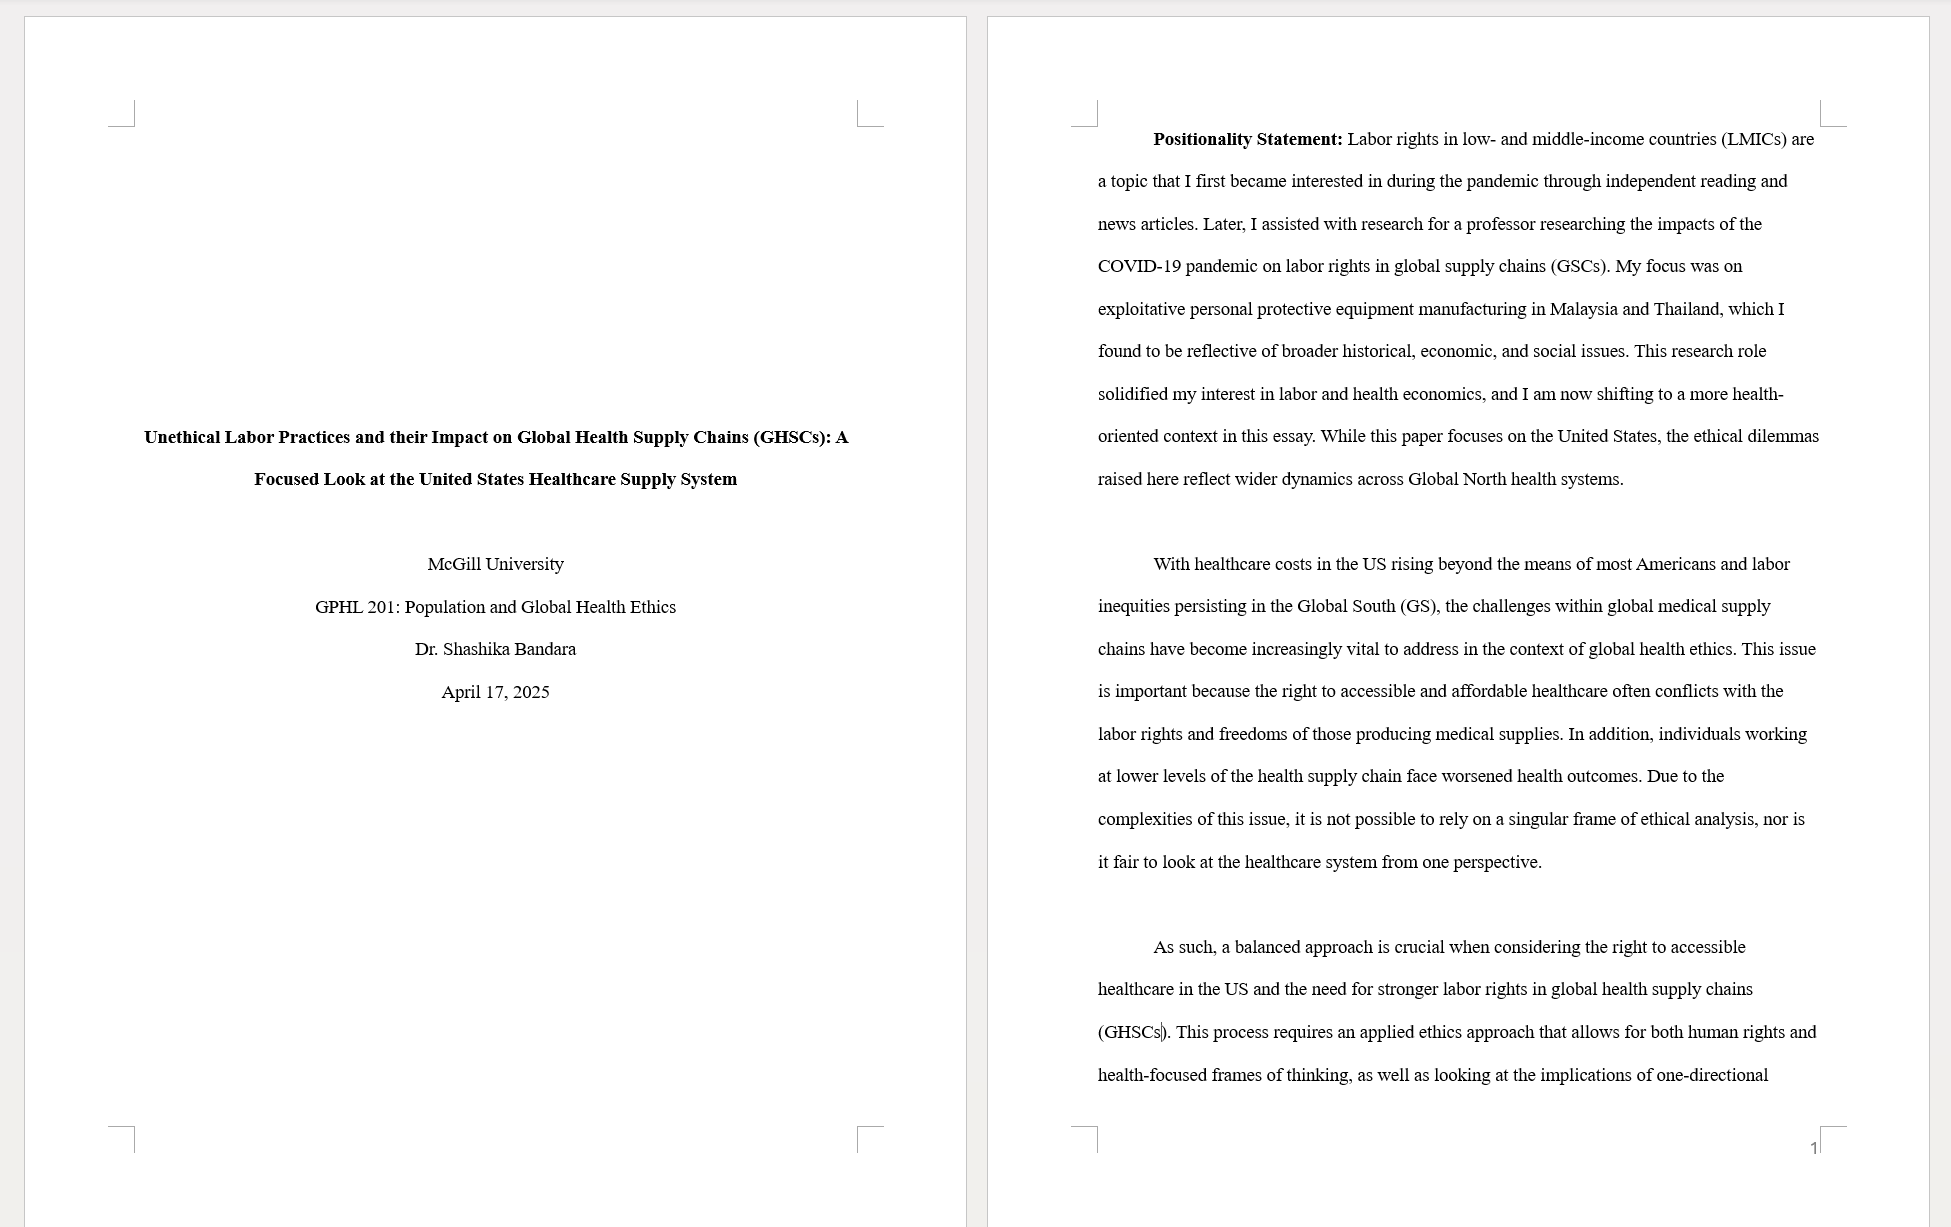
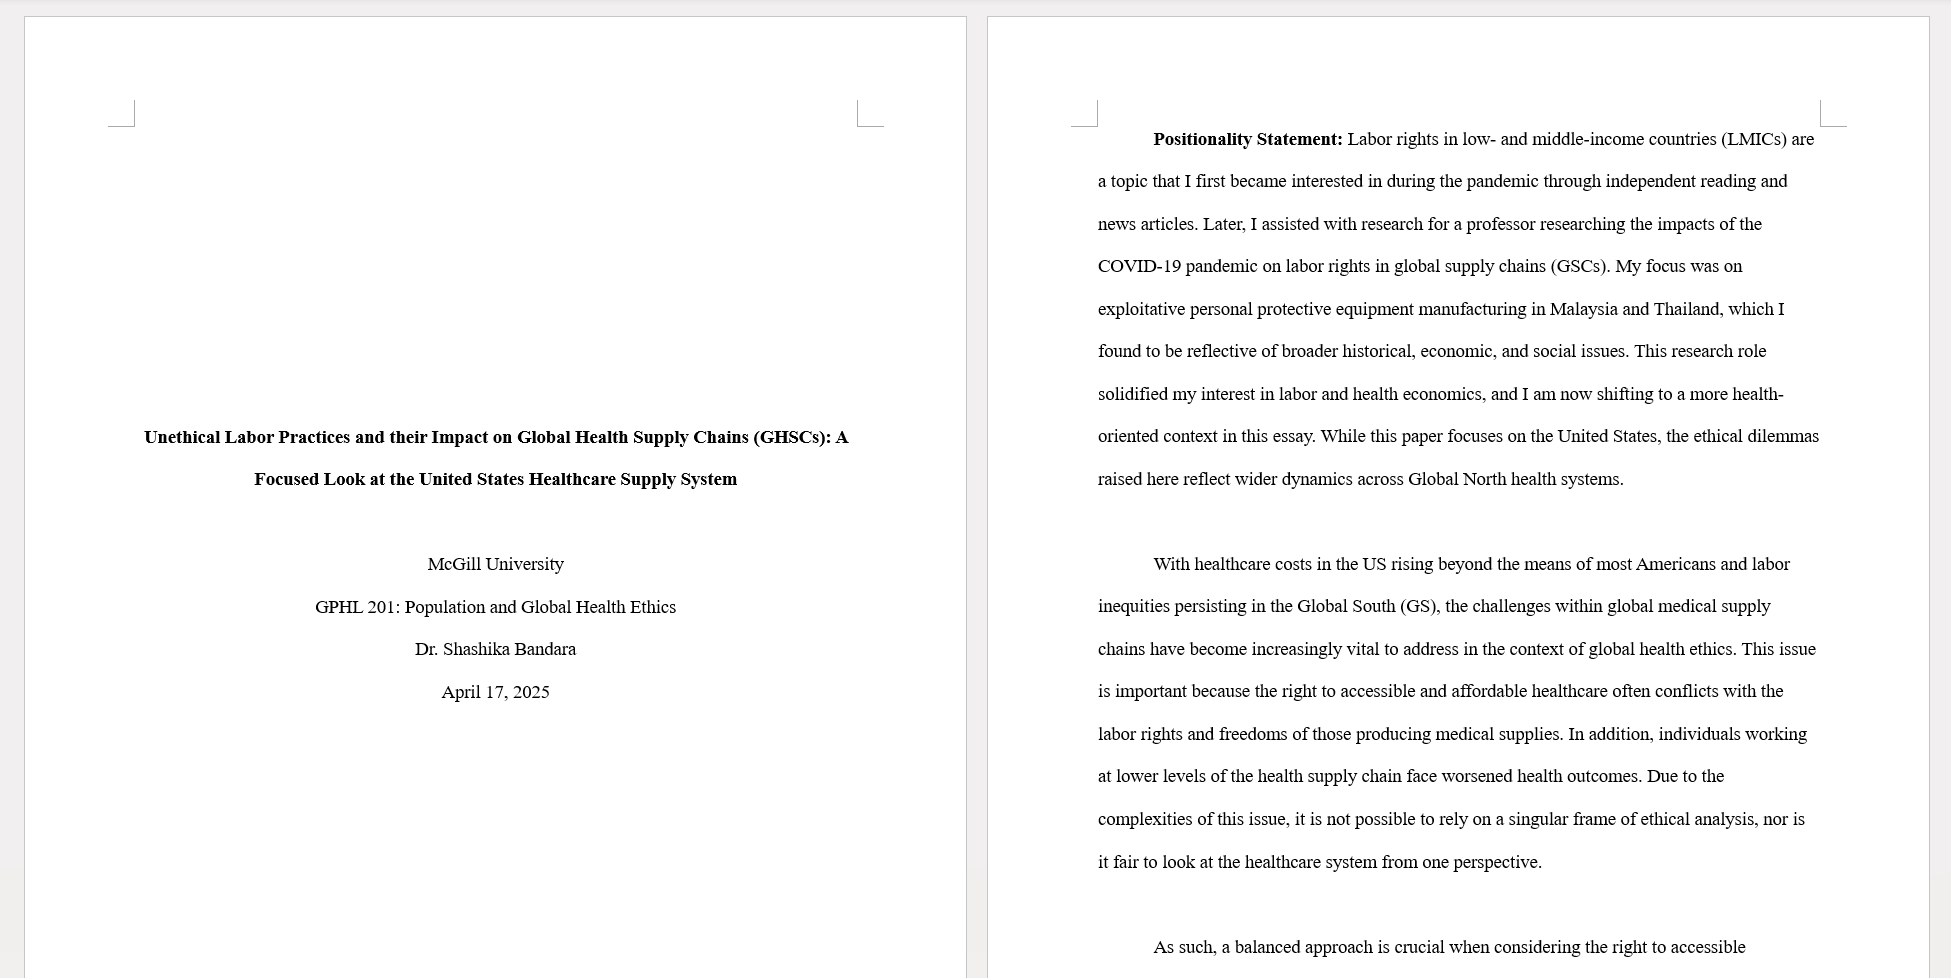
feat: add experience image and additional context to experience section

diff --git a/experiences.html b/experiences.html
@@ -23,8 +23,8 @@
                     <a href="experiences.html" class="navbar_mobile_link">EXPERIENCE</a>
                     <a href="extracurriculars.html" class="navbar_mobile_link">EXTRACURRICULARS</a>
                     <div class="link-logos">
-                        <a href="resume.html" class="navbar_mobile_link"><img
-                                src="images/resume_logo.png" alt="Resume icon"></a>
+                        <a href="resume.html" class="navbar_mobile_link"><img src="images/resume_logo.png"
+                                alt="Resume icon"></a>
                         <a href="https://github.com/liaerisson" class="navbar_mobile_link" target="_blank"><img
                                 src="images/github_logo.svg" alt="GitHub logo"></a>
                         <a href="https://www.linkedin.com/in/lia-erisson/" class="navbar_mobile_link"
@@ -112,6 +112,12 @@
                 academic literature and comparing sources across regions, industries, and research approaches. The
                 experience taught me to go beyond summarizing papers by evaluating evidence, identifying gaps, and
                 thinking about what questions the literature left unanswered.</p>
+                <p> (I later wrote on the subject while taking a global health course here at McGill!) </p>
+        </div>
+        <div class="experience_images">
+        <div class="experience_image_frame">
+            <img src="images/paper.png" alt="...">
+        </div>
         </div>
     </div>
 
